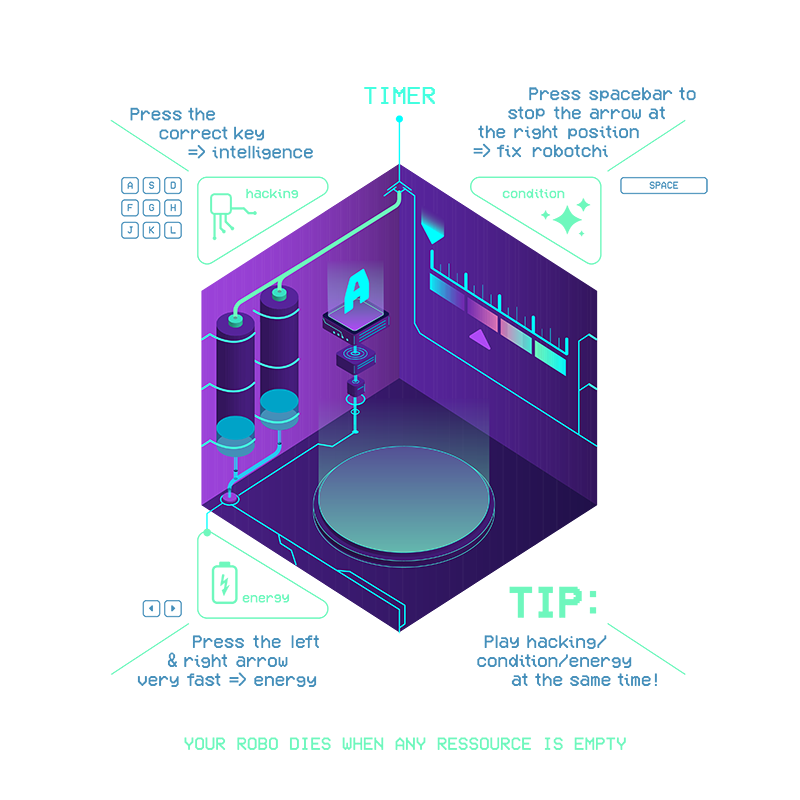
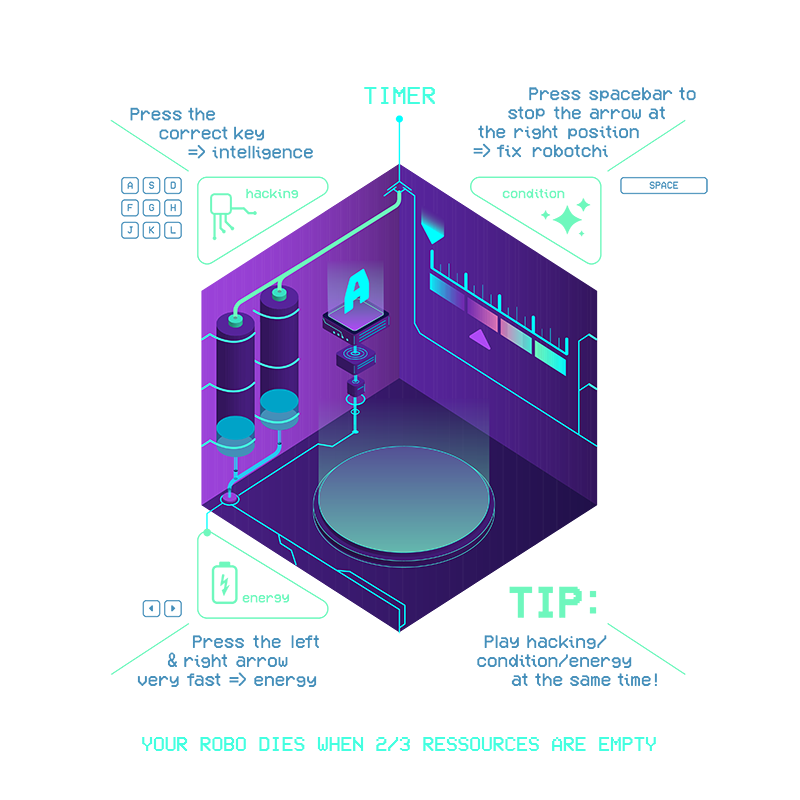
Finales Game
Added XP marker
=> know when you are gaining XP
Corrected manual (lose game)

Changed region(s): [[0.1875, 0.9062, 0.8125, 0.9375]]

diff --git a/00_tamagotchi_de-Vries.js b/00_tamagotchi_de-Vries.js
@@ -397,7 +397,7 @@ function keyReleased() {
 let startTimerEnergyGame = false;
 let startTimerHackingGame = false;
 let startTimerConditionGame = false;
-let screen = "welcomeScreen";
+let screen = "gameScreen";
 window.mouseClicked = mouseClicked;
 function mouseClicked() {
   if (screen === "welcomeScreen") {
@@ -614,6 +614,7 @@ function draw() {
     //Counts XP
     levelUpSystem();
 
+    console.log(theEnergyGame.energyRequirement);
     //WIN
     if (levelUpXP <= -186) {
       winScreen.justFadeInBackground();

diff --git a/ConditionGame.js b/ConditionGame.js
@@ -77,11 +77,16 @@ export default class ConditionGame {
     stroke(0, 255, 255);
     noFill();
     rect(30, -225, 150, 15, 10);
+    rect(60, -225, 120, 15, 10);
 
     //min 0, max 150
     noStroke();
     fill(0, 255, 255);
     rect(180, -225, -150 + this.conditionRequirement, 15, 10);
+
+    textSize(9);
+    textFont("VCR OSD MONO");
+    text("+XP", 38, -214);
   }
 
   displayConditionMeterInRoom() {

diff --git a/HackingGame.js b/HackingGame.js
@@ -132,11 +132,16 @@ export default class HackingGame {
     stroke(0, 255, 255);
     noFill();
     rect(-180, -225, 150, 15, 10);
+    rect(-180, -225, 115, 15, 10);
 
     //min 0, max 150
     noStroke();
     fill(0, 255, 255);
     rect(-180, -225, 150 - this.hackingRequirement, 15, 10);
+
+    textSize(9);
+    textFont("VCR OSD MONO");
+    text("+XP", -58, -214);
   }
 
   hackingSystem() {

diff --git a/energyGame.js b/energyGame.js
@@ -89,6 +89,16 @@ export default class EnergyGame {
       this.waterTopElement.height / 2
     );
 
+    //XP GAIN
+    stroke(0, 255, 255);
+    line(-151, -33, -143, -33);
+
+    noStroke();
+    fill(0, 255, 255);
+    textSize(9);
+    textFont("VCR OSD MONO");
+    text("+XP", -156, -35);
+
     //Overlay Battery Fluid
     image(
       this.ausschnittElement,
